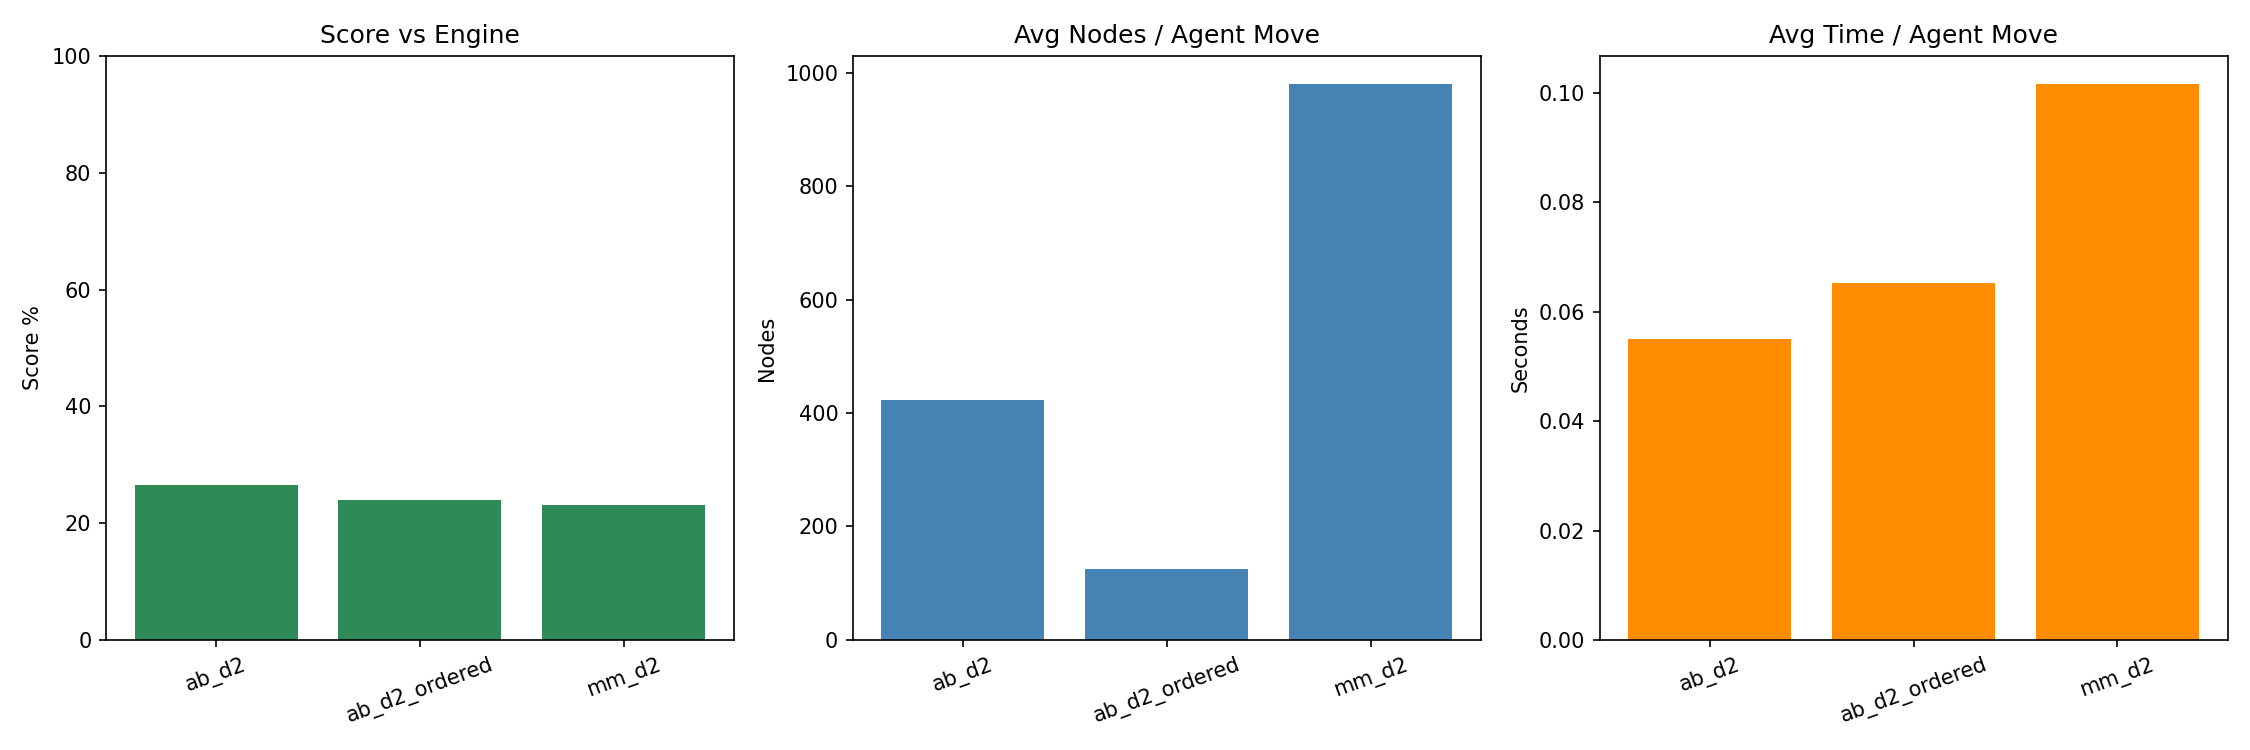
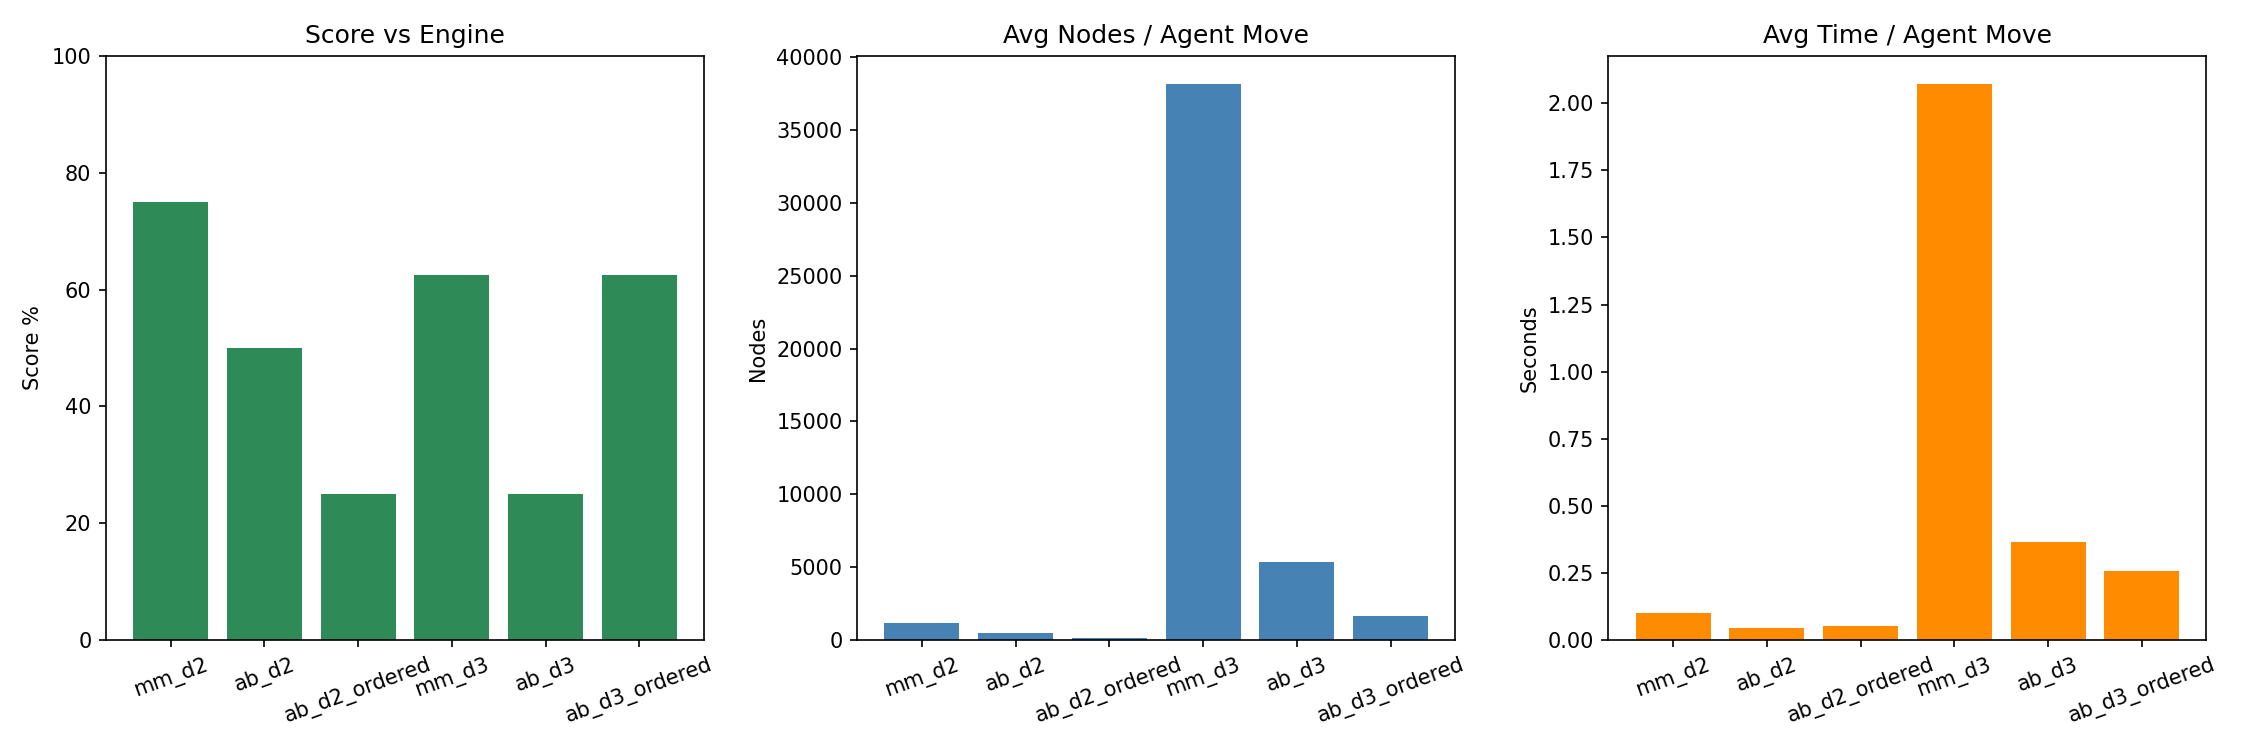
Added a safe way to kill the process

diff --git a/benchmarks/vs_stockfish.py b/benchmarks/vs_stockfish.py
@@ -32,6 +32,8 @@ from multiprocessing import Pool
 import os
 import time
 
+import signal
+
 import chess
 import chess.engine
 
@@ -350,9 +352,19 @@ _worker_limit = None
 
 def _init_worker(engine_path, engine_elo, engine_time):
     """Initializer for each pool worker — spawns one Stockfish process."""
+    signal.signal(signal.SIGINT, signal.SIG_IGN)  # let the main process handle Ctrl+C
     global _worker_engine, _worker_limit
 
-    _worker_engine = chess.engine.SimpleEngine.popen_uci(str(engine_path))
+    # On Windows, Ctrl+C (CTRL_C_EVENT) is broadcast to all processes in the
+    # console's process group, including Stockfish children.  Spawning with
+    # CREATE_NEW_PROCESS_GROUP puts each engine in its own group so it never
+    # receives the signal — pool.terminate() is what stops it instead.
+    popen_kwargs = {}
+    if sys.platform == "win32":
+        import subprocess as _subprocess
+        popen_kwargs["creationflags"] = _subprocess.CREATE_NEW_PROCESS_GROUP
+
+    _worker_engine = chess.engine.SimpleEngine.popen_uci(str(engine_path), **popen_kwargs)
 
     try:
         _worker_engine.configure({"Threads": 1})
@@ -554,6 +566,7 @@ def main():
     print(f"Configs tested:       {len(presets)}")
     print(f"Total games:          {len(tasks)}")
     print(f"Worker processes:     {num_workers}")
+    print("Press Ctrl+C to stop early\n")
     print()
 
     # Map from task index -> record so we can reconstruct insertion order.
@@ -567,10 +580,25 @@ def main():
     )
 
     indexed_tasks = list(enumerate(tasks))
+    async_results = [pool.apply_async(_play_game_task, (task,)) for task in indexed_tasks]
+    pending = set(range(len(async_results)))
     _print_progress(0, len(tasks), start_time)
-    for idx, record in pool.imap_unordered(_play_game_task, indexed_tasks):
-        results_by_index[idx] = record
-        _print_progress(len(results_by_index), len(tasks), start_time)
+    try:
+        while pending:
+            for i in list(pending):
+                if async_results[i].ready():
+                    idx, record = async_results[i].get()
+                    results_by_index[idx] = record
+                    pending.discard(i)
+                    _print_progress(len(results_by_index), len(tasks), start_time)
+            if pending:
+                time.sleep(0.05)  # interruptible by KeyboardInterrupt on Windows
+    except KeyboardInterrupt:
+        sys.stdout.write("\r" + " " * 80 + "\r")
+        print("Stopping...", flush=True)
+        pool.terminate()
+        pool.join()
+        raise SystemExit(1)
 
     pool.terminate()
     pool.join()

diff --git a/config/settings.py b/config/settings.py
@@ -16,13 +16,13 @@ Format per entry: (name, depth, use_alpha_beta, move_ordering)
 # ---------------------------------------------------------------------------
 AGENT_CONFIGS = [
     # name              depth  alpha_beta  move_ordering
-    # ("mm_d2",           2,     False,      False),   # pure Minimax, depth 2
-    # ("ab_d2",           2,     True,       False),   # Alpha-Beta, depth 2
-    # ("ab_d2_ordered",   2,     True,       True),    # Alpha-Beta, depth 2 + move ordering
-    # ("mm_d3",           3,     False,      False),   # pure Minimax, depth 3
-    # ("ab_d3",           3,     True,       False),   # Alpha-Beta, depth 3
-    # ("ab_d3_ordered",   3,     True,       True),    # Alpha-Beta, depth 3 + move ordering
-    ("mm_d4",           4,     False,      False),   # pure Minimax, depth 4
+    ("mm_d2",           2,     False,      False),   # pure Minimax, depth 2
+    ("ab_d2",           2,     True,       False),   # Alpha-Beta, depth 2
+    ("ab_d2_ordered",   2,     True,       True),    # Alpha-Beta, depth 2 + move ordering
+    ("mm_d3",           3,     False,      False),   # pure Minimax, depth 3
+    ("ab_d3",           3,     True,       False),   # Alpha-Beta, depth 3
+    ("ab_d3_ordered",   3,     True,       True),    # Alpha-Beta, depth 3 + move ordering
+    # ("mm_d4",           4,     False,      False),   # pure Minimax, depth 4
     # ("ab_d4",           4,     True,       False),   # Alpha-Beta, depth 4
     # ("ab_d4_ordered",   4,     True,       True),   # Alpha-Beta, depth 4 + move ordering
 ]
@@ -39,7 +39,7 @@ INTERNAL_PLOT_OUTPUT = "internal_benchmark.png"
 MAX_WORKERS      = None         # max parallel worker processes for vs_stockfish (None = all CPU cores)
 ENGINE_ELO       = 1320         # target Elo for Stockfish — minimum supported by this build is 1320
 ENGINE_TIME      = 0.05         # seconds per engine move
-NUM_OPENINGS     = 2           # number of opening positions to test (from config/openings.py)
+NUM_OPENINGS     = 1           # number of opening positions to test (from config/openings.py)
 MAX_PLIES        = 500          # truncate game after this many half-moves (avoids infinite draws)
 VS_ENGINE_CSV    = "engine_benchmark_results.csv"
 VS_ENGINE_PLOT   = "engine_benchmark_summary.png"
